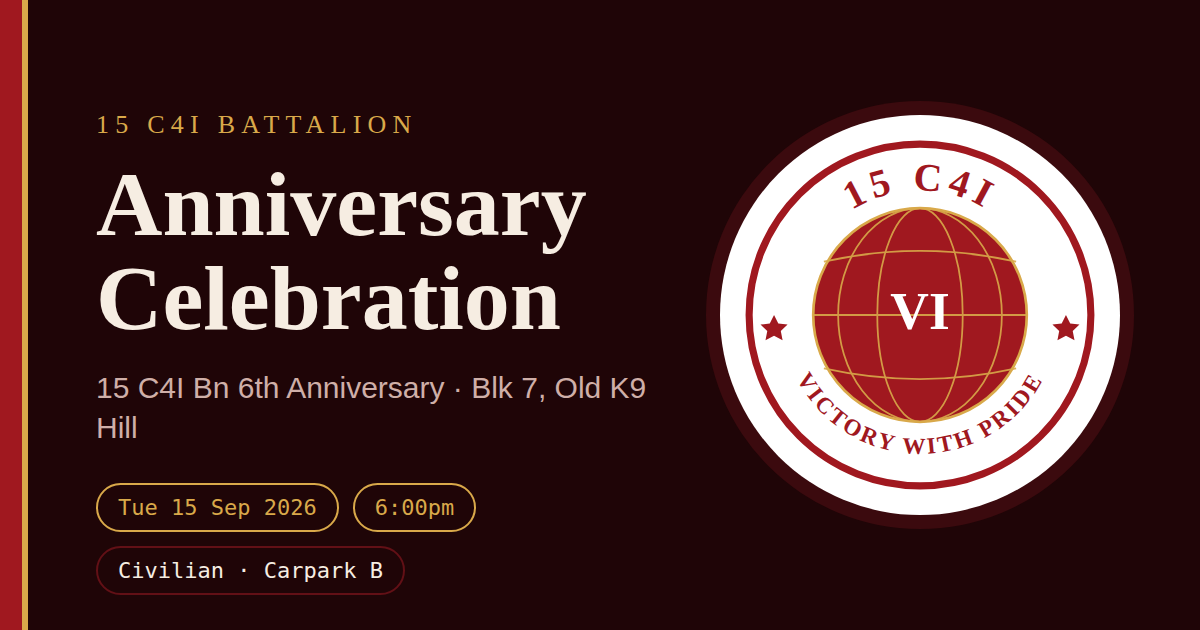
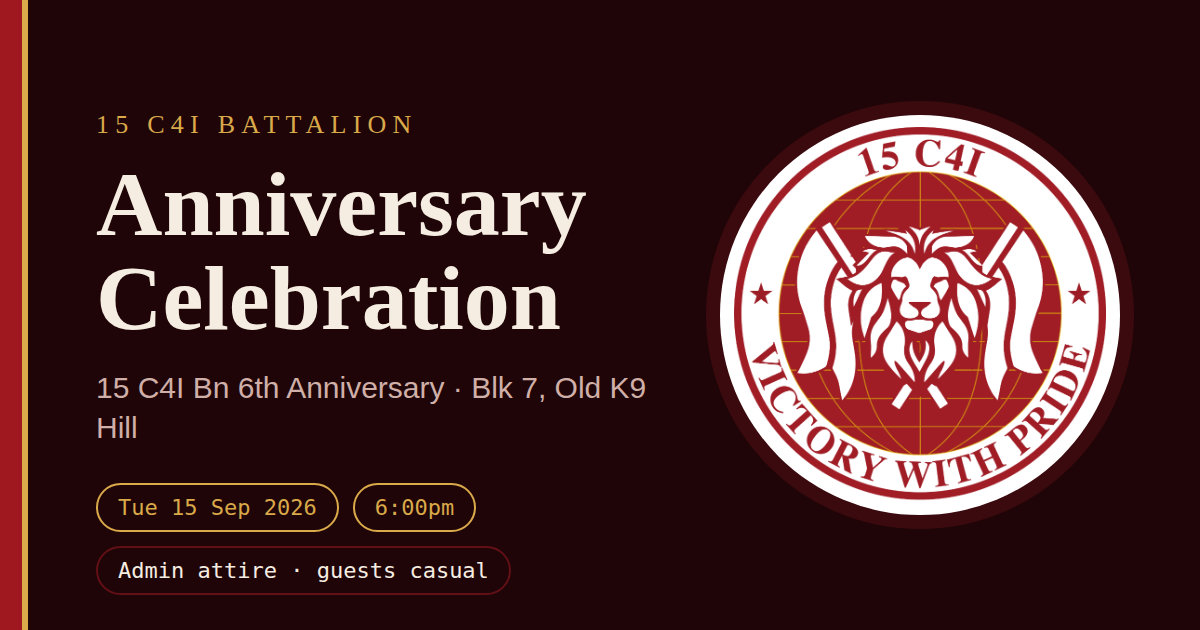
Use real crest and map; update attire per part
- Downscale the uploaded crest to 800px as 15c4i/logo.png and rename the
  annotated satellite view to 15c4i/map.jpg, the paths the pages load.
- Attire: Smart 4 for the launch ceremony, admin attire for the evening
  celebration, casual for guests (guests attend Part 2 only). Updated hero
  chips, section intros, need-to-know, calendar details, meta and footer.
- Regenerate both share-preview images with the real crest.

Claude-Session: https://claude.ai/code/session_01JEYc4ofamM1XpUnzXcGbyJ

Changed region(s): [[0.5858, 0.181, 0.925, 0.8143], [0.0925, 0.8444, 0.4317, 0.9651]]

diff --git a/15c4i/index.html b/15c4i/index.html
@@ -7,14 +7,14 @@
 <meta property="og:type" content="website">
 <meta property="og:site_name" content="15 C4I Battalion">
 <meta property="og:title" content="15 C4I Bn 6th Anniversary — Launch of Panthera HQ &amp; Celebration">
-<meta property="og:description" content="Tue 15 Sep 2026 · Clementi Camp, Blk 7 (Old K9 Hill). 1145H Launch of New Facility Ceremony with Div Comd, then 1800H Battalion Anniversary Celebration. Civilian attire · park at Carpark B. Tap for the full programme and how to get there.">
+<meta property="og:description" content="Tue 15 Sep 2026 · Clementi Camp, Blk 7 (Old K9 Hill). 1145H Launch of New Facility Ceremony with Div Comd, then 1800H Battalion Anniversary Celebration. Smart 4 for the ceremony, admin attire for the celebration (guests: casual) · park at Carpark B. Tap for the full programme and how to get there.">
 <meta property="og:image" content="https://UR-B20.github.io/fon/15c4i/og-preview.png">
 <meta property="og:image:width" content="1200">
 <meta property="og:image:height" content="630">
 <meta property="og:url" content="https://UR-B20.github.io/fon/15c4i/">
 <meta name="twitter:card" content="summary_large_image">
 <meta name="twitter:title" content="15 C4I Bn 6th Anniversary — Launch of Panthera HQ &amp; Celebration">
-<meta name="twitter:description" content="Tue 15 Sep · 1145H ceremony · 1800H celebration · Clementi Camp Blk 7 (Old K9 Hill) · Civilian · Carpark B.">
+<meta name="twitter:description" content="Tue 15 Sep · 1145H ceremony · 1800H celebration · Clementi Camp Blk 7 (Old K9 Hill) · Smart 4 / admin attire · Carpark B.">
 <meta name="twitter:image" content="https://UR-B20.github.io/fon/15c4i/og-preview.png">
 <link rel="preconnect" href="https://fonts.googleapis.com">
 <link rel="preconnect" href="https://fonts.gstatic.com" crossorigin>
@@ -162,7 +162,7 @@ svg text{font-family:var(--mono)}
     <span class="chip hot">Tue 15 Sep 2026</span>
     <span class="chip">Clementi Camp &middot; Blk 7</span>
     <span class="chip">Old K9 Hill</span>
-    <span class="chip">Civilian attire</span>
+    <span class="chip">Carpark B</span>
   </div>
   <div class="count" id="count">
     <div><b id="cd">&ndash;</b><span>days</span></div>
@@ -186,7 +186,7 @@ svg text{font-family:var(--mono)}
 
 <!-- ================= PART 1 ================= -->
 <h2 id="part1">Part 1 &mdash; Launch of New Facility Ceremony</h2>
-<p class="sub">Div Comd and Div PSOs join us at Blk 7 for the unveiling of Panthera HQ. Timings in the programme highlight live on the day.</p>
+<p class="sub">Div Comd and Div PSOs join us at Blk 7 for the unveiling of Panthera HQ. Attire: Smart 4. Timings in the programme highlight live on the day.</p>
 <div class="rule"></div>
 <ul class="tl" data-day="2026-09-15">
   <li data-t="11:45"><span class="node"></span><div><b><span class="t">1145H</span>Arrival of Div Comd &amp; Div PSOs</b><p>Battalion formed up and in position before arrival.</p></div></li>
@@ -202,7 +202,7 @@ svg text{font-family:var(--mono)}
 
 <!-- ================= PART 2 ================= -->
 <h2 id="part2">Part 2 &mdash; Battalion Anniversary Celebration</h2>
-<p class="sub">Back at Blk 7 from 1800H. Civilian attire, games, then dinner and free &amp; easy.</p>
+<p class="sub">Back at Blk 7 from 1800H. Admin attire (guests: casual), games, then dinner and free &amp; easy.</p>
 <div class="rule"></div>
 <ul class="tl" data-day="2026-09-15">
   <li data-t="18:00"><span class="node"></span><div><b><span class="t">1800H</span>Arrival</b><p>Park at Carpark B and walk up the slope to Blk 7.</p></div></li>
@@ -289,20 +289,20 @@ svg text{font-family:var(--mono)}
 <dl class="info">
   <div><dt>Date</dt><dd>Tuesday 15 September 2026<small>Ceremony from 1145H &middot; celebration from 1800H</small></dd></div>
   <div><dt>Venue</dt><dd>Clementi Camp, Blk 7<small>Old K9 Hill</small></dd></div>
-  <div><dt>Attire</dt><dd>Civilian</dd></div>
+  <div><dt>Attire</dt><dd>Part 1: Smart 4<small>Part 2: Admin attire &middot; Guests: Casual</small></dd></div>
   <div><dt>Driving in</dt><dd>Carpark B<small>Then walk up the slope to Blk 7</small></dd></div>
 </dl>
 
 <!-- ================= CTA ================= -->
 <div class="cta">
-  <a class="btn solid" href="https://calendar.google.com/calendar/render?action=TEMPLATE&text=15+C4I+Bn+6th+Anniversary+%E2%80%94+Launch+of+New+Facility+Ceremony&dates=20260915T114500/20260915T130000&ctz=Asia/Singapore&location=Clementi+Camp,+Blk+7+(Old+K9+Hill)&details=Launch+of+Panthera+HQ.+Arrival+of+Div+Comd+1145H.+Civilian+attire.+Park+at+Carpark+B+and+walk+up+the+slope+to+Blk+7.">Calendar &middot; Part 1</a>
-  <a class="btn solid" href="https://calendar.google.com/calendar/render?action=TEMPLATE&text=15+C4I+Bn+6th+Anniversary+Celebration&dates=20260915T180000/20260915T210000&ctz=Asia/Singapore&location=Clementi+Camp,+Blk+7+(Old+K9+Hill)&details=Battalion+Anniversary+Celebration.+Opening+speech+1810H,+games+1820H,+dinner+1830H.+Civilian+attire.+Park+at+Carpark+B+and+walk+up+the+slope+to+Blk+7.">Calendar &middot; Part 2</a>
+  <a class="btn solid" href="https://calendar.google.com/calendar/render?action=TEMPLATE&text=15+C4I+Bn+6th+Anniversary+%E2%80%94+Launch+of+New+Facility+Ceremony&dates=20260915T114500/20260915T130000&ctz=Asia/Singapore&location=Clementi+Camp,+Blk+7+(Old+K9+Hill)&details=Launch+of+Panthera+HQ.+Arrival+of+Div+Comd+1145H.+Attire:+Smart+4.+Park+at+Carpark+B+and+walk+up+the+slope+to+Blk+7.">Calendar &middot; Part 1</a>
+  <a class="btn solid" href="https://calendar.google.com/calendar/render?action=TEMPLATE&text=15+C4I+Bn+6th+Anniversary+Celebration&dates=20260915T180000/20260915T210000&ctz=Asia/Singapore&location=Clementi+Camp,+Blk+7+(Old+K9+Hill)&details=Battalion+Anniversary+Celebration.+Opening+speech+1810H,+games+1820H,+dinner+1830H.+Admin+attire+(guests:+casual).+Park+at+Carpark+B+and+walk+up+the+slope+to+Blk+7.">Calendar &middot; Part 2</a>
   <a class="btn ghost" href="https://www.google.com/maps/search/?api=1&query=Clementi+Camp,+Clementi+Avenue+6,+Singapore">Directions to Clementi Camp</a>
 </div>
 
 <p class="foot">
   <b>15 C4I Battalion</b> &middot; Victory with Pride<br>
-  Clementi Camp, Blk 7 (Old K9 Hill) &middot; Civilian attire &middot; Carpark B<br>
+  Clementi Camp, Blk 7 (Old K9 Hill) &middot; Smart 4 / Admin attire &middot; Carpark B<br>
   <a href="celebration.html">Evening celebration only &rarr;</a>
 </p>
 </div>

diff --git a/15c4i/celebration.html b/15c4i/celebration.html
@@ -7,14 +7,14 @@
 <meta property="og:type" content="website">
 <meta property="og:site_name" content="15 C4I Battalion">
 <meta property="og:title" content="15 C4I Bn 6th Anniversary Celebration">
-<meta property="og:description" content="Tue 15 Sep 2026 · 6:00pm · Clementi Camp, Blk 7 (Old K9 Hill). Opening speech by CO, games, then dinner and free &amp; easy. Civilian attire · park at Carpark B. Tap for the programme and how to get there.">
+<meta property="og:description" content="Tue 15 Sep 2026 · 6:00pm · Clementi Camp, Blk 7 (Old K9 Hill). Opening speech by CO, games, then dinner and free &amp; easy. Admin attire, guests casual · park at Carpark B. Tap for the programme and how to get there.">
 <meta property="og:image" content="https://UR-B20.github.io/fon/15c4i/og-celebration.png">
 <meta property="og:image:width" content="1200">
 <meta property="og:image:height" content="630">
 <meta property="og:url" content="https://UR-B20.github.io/fon/15c4i/celebration.html">
 <meta name="twitter:card" content="summary_large_image">
 <meta name="twitter:title" content="15 C4I Bn 6th Anniversary Celebration">
-<meta name="twitter:description" content="Tue 15 Sep · 6:00pm · Clementi Camp Blk 7 (Old K9 Hill) · Civilian · Carpark B.">
+<meta name="twitter:description" content="Tue 15 Sep · 6:00pm · Clementi Camp Blk 7 (Old K9 Hill) · Admin attire · Carpark B.">
 <meta name="twitter:image" content="https://UR-B20.github.io/fon/15c4i/og-celebration.png">
 <link rel="preconnect" href="https://fonts.googleapis.com">
 <link rel="preconnect" href="https://fonts.gstatic.com" crossorigin>
@@ -162,7 +162,7 @@ svg text{font-family:var(--mono)}
     <span class="chip hot">Tue 15 Sep 2026</span>
     <span class="chip hot">6:00pm</span>
     <span class="chip">Clementi Camp &middot; Blk 7</span>
-    <span class="chip">Civilian attire</span>
+    <span class="chip">Admin attire</span>
   </div>
   <div class="count" id="count">
     <div><b id="cd">&ndash;</b><span>days</span></div>
@@ -174,7 +174,7 @@ svg text{font-family:var(--mono)}
 
 <!-- ================= PROGRAMME ================= -->
 <h2 id="programme">Programme</h2>
-<p class="sub">Doors from 1800H at Blk 7. Timings highlight live on the day.</p>
+<p class="sub">Doors from 1800H at Blk 7. Admin attire; guests come casual. Timings highlight live on the day.</p>
 <div class="rule"></div>
 <ul class="tl" data-day="2026-09-15">
   <li data-t="18:00"><span class="node"></span><div><b><span class="t">1800H</span>Arrival</b><p>Park at Carpark B and walk up the slope to Blk 7.</p></div></li>
@@ -261,19 +261,19 @@ svg text{font-family:var(--mono)}
 <dl class="info">
   <div><dt>Date</dt><dd>Tuesday 15 September 2026<small>6:00pm &ndash; 9:00pm</small></dd></div>
   <div><dt>Venue</dt><dd>Clementi Camp, Blk 7<small>Old K9 Hill</small></dd></div>
-  <div><dt>Attire</dt><dd>Civilian</dd></div>
+  <div><dt>Attire</dt><dd>Admin attire<small>Guests: Casual</small></dd></div>
   <div><dt>Driving in</dt><dd>Carpark B<small>Then walk up the slope to Blk 7</small></dd></div>
 </dl>
 
 <!-- ================= CTA ================= -->
 <div class="cta">
-  <a class="btn solid" href="https://calendar.google.com/calendar/render?action=TEMPLATE&text=15+C4I+Bn+6th+Anniversary+Celebration&dates=20260915T180000/20260915T210000&ctz=Asia/Singapore&location=Clementi+Camp,+Blk+7+(Old+K9+Hill)&details=Battalion+Anniversary+Celebration.+Opening+speech+1810H,+games+1820H,+dinner+1830H.+Civilian+attire.+Park+at+Carpark+B+and+walk+up+the+slope+to+Blk+7.">Add to calendar</a>
+  <a class="btn solid" href="https://calendar.google.com/calendar/render?action=TEMPLATE&text=15+C4I+Bn+6th+Anniversary+Celebration&dates=20260915T180000/20260915T210000&ctz=Asia/Singapore&location=Clementi+Camp,+Blk+7+(Old+K9+Hill)&details=Battalion+Anniversary+Celebration.+Opening+speech+1810H,+games+1820H,+dinner+1830H.+Admin+attire+(guests:+casual).+Park+at+Carpark+B+and+walk+up+the+slope+to+Blk+7.">Add to calendar</a>
   <a class="btn ghost" href="https://www.google.com/maps/search/?api=1&query=Clementi+Camp,+Clementi+Avenue+6,+Singapore">Directions to Clementi Camp</a>
 </div>
 
 <p class="foot">
   <b>15 C4I Battalion</b> &middot; Victory with Pride<br>
-  Clementi Camp, Blk 7 (Old K9 Hill) &middot; Civilian attire &middot; Carpark B<br>
+  Clementi Camp, Blk 7 (Old K9 Hill) &middot; Admin attire &middot; Guests casual &middot; Carpark B<br>
   <a href="./">Full-day programme incl. Panthera HQ launch &rarr;</a>
 </p>
 </div>

diff --git a/README.md b/README.md
@@ -6,7 +6,4 @@ Event pages served via GitHub Pages.
 - `/15c4i/` — 15 C4I Bn 6th Anniversary: Launch of Panthera HQ ceremony + evening celebration (15 Sep).
 - `/15c4i/celebration.html` — 15 C4I Bn 6th Anniversary: evening celebration only.
 
-The 15 C4I pages load two images from the `15c4i/` folder. Until they are added, a drawn crest is shown and the satellite photo section is hidden:
-
-- `15c4i/logo.png` — battalion crest.
-- `15c4i/map.jpg` — annotated satellite view (Carpark B and walk up to Blk 7).
+The 15 C4I pages use `15c4i/logo.png` (battalion crest) and `15c4i/map.jpg` (annotated satellite view). If either is missing, a drawn crest is shown and the satellite photo section is hidden.
